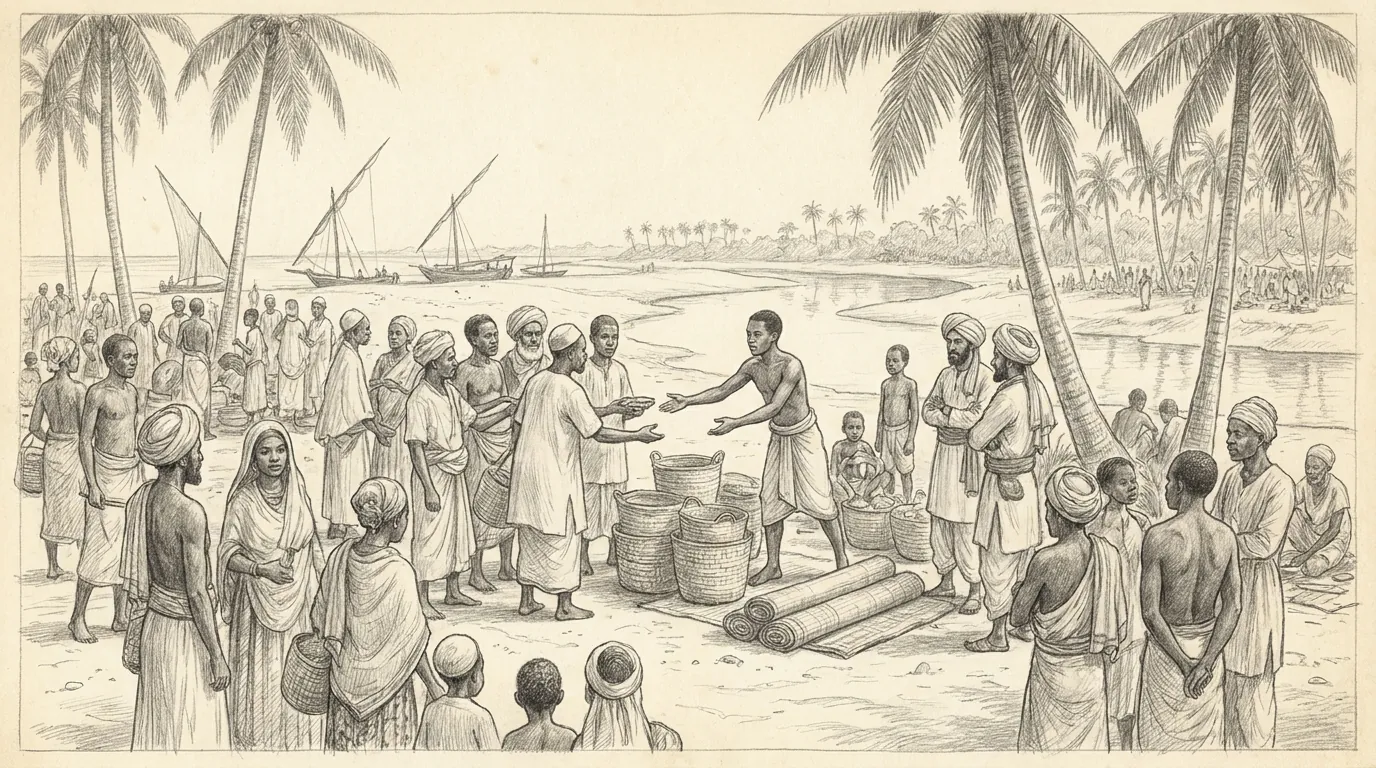
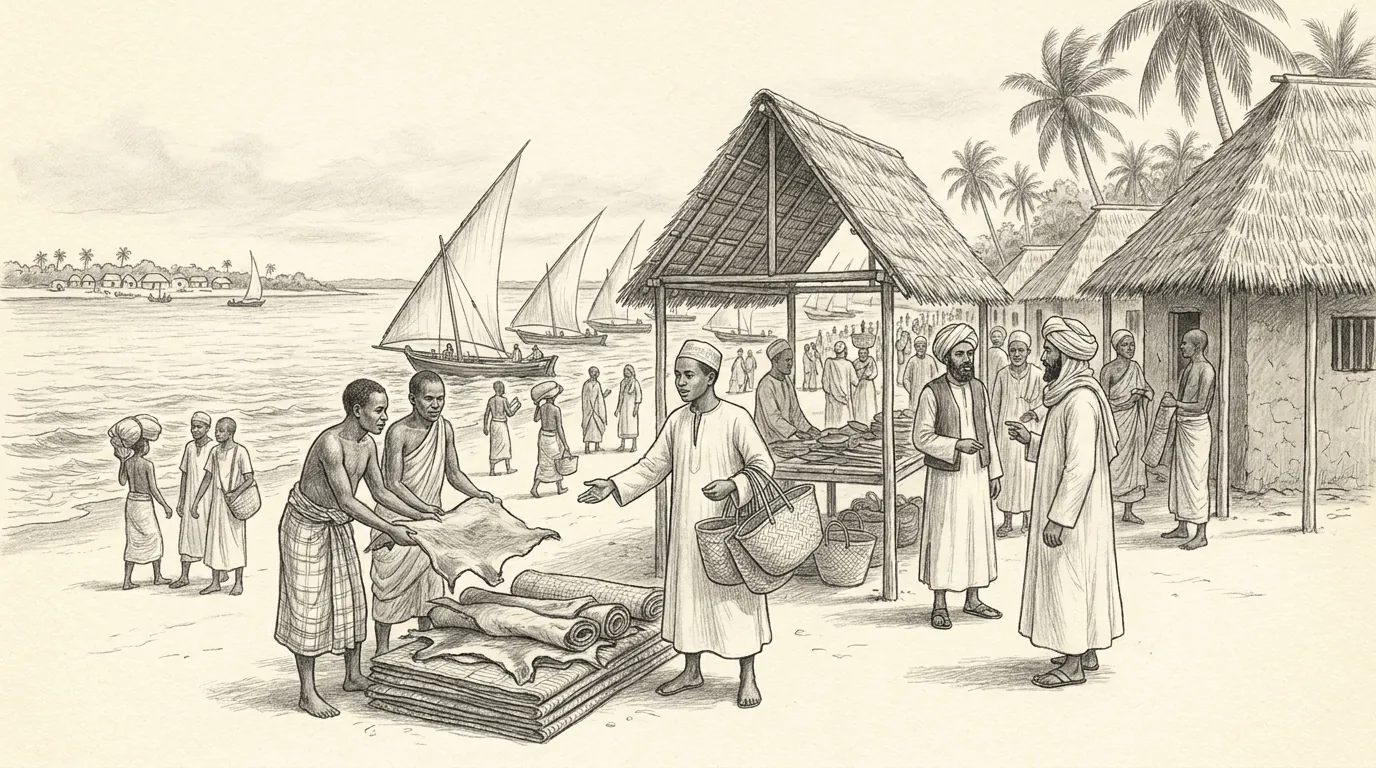
Hero pages: quotations render as blockquotes (HIST-2); fingo (not jingo); Dzubgwe (not Dzugwe); Likoni scene redrawn with the channel at true scale

diff --git a/lib/history/figure-articles.ts b/lib/history/figure-articles.ts
@@ -33,8 +33,10 @@ export function parseFigureMarkdown(md: string): FigureArticle {
     if (para.length) out.body.push({ type: 'paragraph', text: para.join(' ') });
     para = [];
   };
+  let prevQuote = false;
   for (const raw of md.split('\n')) {
     const line = raw.trim();
+    if (!line.startsWith('>')) prevQuote = false;
     if (line.startsWith('# ')) {
       const [title, ...rest] = line.slice(2).split(':');
       out.title = title.trim();
@@ -51,6 +53,15 @@ export function parseFigureMarkdown(md: string): FigureArticle {
       if (item) out.sources.push(item);
     } else if (/^\*\*[^*]+:\*\*/.test(line) && out.body.every((b) => b.type !== 'heading')) {
       out.meta.push(line.replace(/^\*\*([^*]+):\*\*\s*/, '$1: '));
+    } else if (line.startsWith('>')) {
+      flush();
+      // Consecutive "> " lines form one quotation.
+      const text = line.replace(/^>\s?/, '');
+      const last = out.body[out.body.length - 1];
+      if (last?.type === 'quote' && prevQuote) last.text += ` ${text}`;
+      else out.body.push({ type: 'quote', text });
+      prevQuote = true;
+      continue;
     } else if (/^[-*]\s+/.test(line)) {
       flush();
       out.body.push({ type: 'paragraph', text: line.replace(/^[-*]\s+/, '') });

diff --git a/tests/history-figure-articles.test.ts b/tests/history-figure-articles.test.ts
@@ -18,6 +18,8 @@ describe('figure articles', () => {
       expect(a.sources.length).toBeGreaterThan(0);
       // Overview labels and the Sources list never leak into the body.
       expect(a.body.some((b) => /^(overview|sources)$/i.test(b.text))).toBe(false);
+      // Quotations are parsed as quote blocks, never shown with a literal ">" (HIST-2).
+      expect(a.body.some((b) => b.text.trimStart().startsWith('>'))).toBe(false);
     });
   }
   it('every figure card has its article in all three languages', () => {

diff --git a/components/HistoryArticle/HistoryArticle.tsx b/components/HistoryArticle/HistoryArticle.tsx
@@ -42,6 +42,10 @@ export function ArticleBody({ body }: { body: ContentBlock[] }) {
           <h3 key={i} className={styles.articleHeading}>
             {block.text}
           </h3>
+        ) : block.type === 'quote' ? (
+          <blockquote key={i} className={styles.quote}>
+            {renderInlineMarkdown(block.text)}
+          </blockquote>
         ) : (
           <p key={i} className={styles.bodyText}>
             {renderInlineMarkdown(block.text)}

diff --git a/components/HistoryArticle/HistoryArticle.module.css b/components/HistoryArticle/HistoryArticle.module.css
@@ -192,3 +192,14 @@
     grid-template-columns: 1fr;
   }
 }
+
+.quote {
+  margin: 0 0 1.5rem;
+  padding: 0.25rem 0 0.25rem 1.25rem;
+  border-left: 3px solid var(--color-mnazi-gold);
+  font-family: var(--font-serif);
+  font-style: italic;
+  font-size: 1.05rem;
+  line-height: 1.7;
+  color: var(--color-vigango-black);
+}

diff --git a/lib/history/content.ts b/lib/history/content.ts
@@ -2,7 +2,8 @@ import type { Locale } from '@/lib/i18n/config';
 
 export type ContentBlock =
   | { type: 'heading'; text: string }
-  | { type: 'paragraph'; text: string };
+  | { type: 'paragraph'; text: string }
+  | { type: 'quote'; text: string };
 
 export type Topic = {
   slug: string;

diff --git a/content/history/figures/dg/salim-mwabundu.md b/content/history/figures/dg/salim-mwabundu.md
@@ -14,7 +14,7 @@ Phephi mambo gosi ganagomanyikana kuhusu iye ganatuluka kpwa mdzukuluwe, Saidi b
 
 ## Makaya ga Likoni
 
-Kufikira karne ya 19 Adigo a phatu pha Likoni kala anaishi kpwenye makaya manne: Puma, Chibuyuni, Timbwani na Shonda. Kaya kala ni chidzidzi chiricho na ngome na phatu pha mila, chirichokala chinalongozwa ni baraza ra azehe (*ngambi*). Mzehe mkpwulu wa kaya, *mwanatsi* ("mwana wa tsi"), kala ndiye analongoza mila, na kpwa kawaida kala anatsambulwa kpwa uphande wa mayo kula fuko ririroandzisha kaya. Makaya manne ga Likoni kala gakaungana, na azehe a makaya higo kala anakutana na kulavya sadaka phamwenga. Shonda ndiyo kala ya kpwandza kahi ya makaya higo. Kala ina mbira za kare sana za akare, na *jingo*, pingu ya kurinda, ambayo ni mwenga wa pingu za kare zaidi za phatu phapho. Misafara ya mila kala inatsupa kpwenye makaya ganjina mahahu kabla ya kufika Shonda, ambapho mila kulu kala zinahendwa.
+Kufikira karne ya 19 Adigo a phatu pha Likoni kala anaishi kpwenye makaya manne: Puma, Chibuyuni, Timbwani na Shonda. Kaya kala ni chidzidzi chiricho na ngome na phatu pha mila, chirichokala chinalongozwa ni baraza ra azehe (*ngambi*). Mzehe mkpwulu wa kaya, *mwanatsi* ("mwana wa tsi"), kala ndiye analongoza mila, na kpwa kawaida kala anatsambulwa kpwa uphande wa mayo kula fuko ririroandzisha kaya. Makaya manne ga Likoni kala gakaungana, na azehe a makaya higo kala anakutana na kulavya sadaka phamwenga. Shonda ndiyo kala ya kpwandza kahi ya makaya higo. Kala ina mbira za kare sana za akare, na *fingo*, pingu ya kurinda, ambayo ni mwenga wa pingu za kare zaidi za phatu phapho. Misafara ya mila kala inatsupa kpwenye makaya ganjina mahahu kabla ya kufika Shonda, ambapho mila kulu kala zinahendwa.
 
 Aislamu kala taaishi Likoni mwandzo wa karne ya 19, ela Aswahili a Kilindini kula Mombasa kala anarima iko. Mwaka 1837 Sultani wa Zanzibar waika asikari a Chibaluchi Mombasa, nao chisha aandza kuhenda biashara na Adigo. Anjina ao alola achetu a Chidigo. Kpwa vira kala takuna chete cha Adigo Likoni, achuuzi kala anaika vitu vyao phephi na pwani.
 
@@ -32,7 +32,7 @@ Wakati uo kala takuna msikiti Likoni. Dza Adigo anjina ariokala akasilimu, Mwabu
 
 Mwandzo wa miaka ya 1890 Mwabundu wamhuma mwanawe mvugula, Khalfan, akasome Kuruani. Mwalimu wa kpwandza wa Khalfan kala ni Mbwana bin Ali Mwarako, Mdigo wa Tanga ariyekala anafundza Likoni. Chisha Khalfan wasoma Mombasa, na mwisho Pongwe kpwa Bakari Mwanjama, mwalimu Msegeju na msena wa ise. Khalfan kala achere iko Pongwe iriphobanangwa mwezi wa Oktoba 1895, kahi za viha kahi ya Aingereza na Shaykh Mbaruk wa Gasi, na mwalimuwe watsama phamwenga na anafundzie kuphiya Ramisi.
 
-Mwaka 1899 Khamis Dzugwe wadzenga msikiti wa kpwandza wa Likoni, Msikiti wa Riyadha. Khalfan ariphouya kpwakpwe kaya wakala Imamu wa msikiti uo. Kama mwaka 1909 Salim Mwabundu wadzenga msikiti wa phiri, Msikiti wa Bomani, bada ya kutsimba kpwandza chisima phephi naho kpwa msada wa Mwislamu wa Chibohora kula Mombasa. Khalfan wauricha Msikiti wa Riyadha achikala Imamu wa kpwandza wa Bomani, na bada ya Viha vya Kpwandza vya Dunia wavugula chuo cha Kuruani iko. Orodha ya serikali ya misikiti ya mwaka 1913 inahadza msikiti mmwenga wa "Salim wa Bundu".
+Mwaka 1899 Khamis Dzubgwe wadzenga msikiti wa kpwandza wa Likoni, Msikiti wa Riyadha. Khalfan ariphouya kpwakpwe kaya wakala Imamu wa msikiti uo. Kama mwaka 1909 Salim Mwabundu wadzenga msikiti wa phiri, Msikiti wa Bomani, bada ya kutsimba kpwandza chisima phephi naho kpwa msada wa Mwislamu wa Chibohora kula Mombasa. Khalfan wauricha Msikiti wa Riyadha achikala Imamu wa kpwandza wa Bomani, na bada ya Viha vya Kpwandza vya Dunia wavugula chuo cha Kuruani iko. Orodha ya serikali ya misikiti ya mwaka 1913 inahadza msikiti mmwenga wa "Salim wa Bundu".
 
 ## Tsini ya Utawala wa Aingereza
 

diff --git a/content/history/figures/sw/salim-mwabundu.md b/content/history/figures/sw/salim-mwabundu.md
@@ -14,7 +14,7 @@ Karibu kila kinachojulikana kumhusu kinatoka kwa mjukuu wake, Saidi bin Khalfan 
 
 ## Kaya za Likoni
 
-Kufikia karne ya 19 Adigo wa eneo la Likoni waliishi katika kaya nne: Puma, Chibuyuni, Timbwani na Shonda. Kaya ilikuwa makazi yenye ngome na kituo cha mila, yaliyoongozwa na baraza la wazee (*ngambi*). Mzee wake mkuu, *mwanatsi* ("mwana wa nchi"), aliongoza sherehe na kwa kawaida alichaguliwa kupitia upande wa mama kutoka ukoo ulioanzisha kaya. Kaya nne za Likoni ziliunda shirikisho ambalo wazee wake walikutana na kutoa sadaka pamoja. Shonda ilikuwa ya kwanza kati yao. Ilikuwa na makaburi ya kale zaidi ya mababu na mojawapo ya hirizi kongwe zaidi za kinga (*jingo*) katika eneo hilo, na misafara ya mila ilipita katika kaya zile nyingine tatu kabla ya kufika Shonda, ambako sherehe kuu zilifanyika.
+Kufikia karne ya 19 Adigo wa eneo la Likoni waliishi katika kaya nne: Puma, Chibuyuni, Timbwani na Shonda. Kaya ilikuwa makazi yenye ngome na kituo cha mila, yaliyoongozwa na baraza la wazee (*ngambi*). Mzee wake mkuu, *mwanatsi* ("mwana wa nchi"), aliongoza sherehe na kwa kawaida alichaguliwa kupitia upande wa mama kutoka ukoo ulioanzisha kaya. Kaya nne za Likoni ziliunda shirikisho ambalo wazee wake walikutana na kutoa sadaka pamoja. Shonda ilikuwa ya kwanza kati yao. Ilikuwa na makaburi ya kale zaidi ya mababu na mojawapo ya hirizi kongwe zaidi za kinga (*fingo*) katika eneo hilo, na misafara ya mila ilipita katika kaya zile nyingine tatu kabla ya kufika Shonda, ambako sherehe kuu zilifanyika.
 
 Waislamu hawakuishi Likoni mwanzoni mwa karne ya 19, ingawa Waswahili wa Kilindini kutoka Mombasa walilima huko. Mwaka 1837 Sultani wa Zanzibar aliweka askari wa Kibaluchi Mombasa, na punde wakaanza kufanya biashara na Adigo. Baadhi yao walioa wake wa Kidigo. Kwa kuwa hapakuwa na soko la Adigo Likoni, wafanyabiashara walipanga bidhaa zao karibu na ufuo.
 
@@ -32,7 +32,7 @@ Wakati huo hapakuwa na msikiti Likoni. Kama Adigo wengine waliosilimu, Mwabundu 
 
 Mwanzoni mwa miaka ya 1890 Mwabundu alimpeleka mwanawe wa kwanza, Khalfan, kusoma Qurani. Mwalimu wa kwanza wa Khalfan alikuwa Mbwana bin Ali Mwarako, Mdigo kutoka Tanga aliyekuwa akifundisha Likoni. Kisha alisoma Mombasa, na mwishowe Pongwe kwa Bakari Mwanjama, mwalimu Msegeju na rafiki wa baba yake. Alikuwa bado Pongwe ilipoharibiwa Oktoba 1895, katika mapigano kati ya Waingereza na Shaykh Mbaruk wa Gasi, na mwalimu wake alihamia Ramisi pamoja na wanafunzi wake.
 
-Mwaka 1899 Khamis Dzugwe alijenga msikiti wa kwanza wa Likoni, Msikiti wa Riyadha. Khalfan aliporudi nyumbani akawa Imamu wake. Karibu mwaka 1909 Salim Mwabundu alijenga msikiti wa pili, Msikiti wa Bomani, baada ya kwanza kuchimba kisima karibu nao kwa msaada wa Mwislamu wa Kibohora kutoka Mombasa. Khalfan aliuacha Msikiti wa Riyadha akawa Imamu wa kwanza wa Bomani, na baada ya Vita vya Kwanza vya Dunia alifungua chuo cha Qurani huko. Orodha ya serikali ya misikiti ya mwaka 1913 inataja msikiti mmoja wa "Salim wa Bundu".
+Mwaka 1899 Khamis Dzubgwe alijenga msikiti wa kwanza wa Likoni, Msikiti wa Riyadha. Khalfan aliporudi nyumbani akawa Imamu wake. Karibu mwaka 1909 Salim Mwabundu alijenga msikiti wa pili, Msikiti wa Bomani, baada ya kwanza kuchimba kisima karibu nao kwa msaada wa Mwislamu wa Kibohora kutoka Mombasa. Khalfan aliuacha Msikiti wa Riyadha akawa Imamu wa kwanza wa Bomani, na baada ya Vita vya Kwanza vya Dunia alifungua chuo cha Qurani huko. Orodha ya serikali ya misikiti ya mwaka 1913 inataja msikiti mmoja wa "Salim wa Bundu".
 
 ## Chini ya Utawala wa Waingereza
 

diff --git a/content/history/figures/salim-mwabundu.md b/content/history/figures/salim-mwabundu.md
@@ -14,7 +14,7 @@ Nearly everything known about him comes from his grandson, Saidi bin Khalfan Mwa
 
 ## The Kayas of Likoni
 
-By the 19th century the Digo of the Likoni area lived in four kayas: Puma, Chibuyuni, Timbwani and Shonda. A kaya was a fortified settlement and ritual centre, governed by a council of elders (*ngambi*). Its senior elder, the *mwanatsi* ("son of the land"), led the ceremonies and was normally chosen through the mother's line from the founding clan. The four Likoni kayas formed a federation whose elders met and made sacrifices together. Shonda came first among them. It held the earliest ancestral graves and one of the oldest protective charms (*jingo*) of the area, and ritual processions passed through the other three kayas before reaching Shonda, where the main ceremonies took place.
+By the 19th century the Digo of the Likoni area lived in four kayas: Puma, Chibuyuni, Timbwani and Shonda. A kaya was a fortified settlement and ritual centre, governed by a council of elders (*ngambi*). Its senior elder, the *mwanatsi* ("son of the land"), led the ceremonies and was normally chosen through the mother's line from the founding clan. The four Likoni kayas formed a federation whose elders met and made sacrifices together. Shonda came first among them. It held the earliest ancestral graves and one of the oldest protective charms (*fingo*) of the area, and ritual processions passed through the other three kayas before reaching Shonda, where the main ceremonies took place.
 
 Muslims did not live at Likoni in the early 19th century, though Kilindini Swahili from Mombasa farmed there. In 1837 the Sultan of Zanzibar posted Baluchi soldiers at Mombasa, and they soon began trading with the Digo. Some took Digo wives. With no Digo market at Likoni, traders laid out their goods near the shore.
 
@@ -32,7 +32,7 @@ There was no mosque at Likoni then. Like other Digo converts, Mwabundu went to M
 
 In the early 1890s Mwabundu sent his eldest son, Khalfan, to study the Qur'an. Khalfan's first teacher was Mbwana bin Ali Mwarako, a Digo from Tanga who was teaching at Likoni. He then studied in Mombasa, and finally at Pongwe with Bakari Mwanjama, a Segeju teacher and a friend of his father. He was still at Pongwe when it was destroyed in October 1895, in the fighting between the British and Shaykh Mbaruk of Gasi, and his teacher moved with his pupils to Ramisi.
 
-In 1899 Khamis Dzugwe built Likoni's first mosque, the Riyadha Mosque. When Khalfan came home he became its Imam. In about 1909 Salim Mwabundu built the second, the Bomani Mosque, after first digging a well nearby with the help of a Bohora Muslim from Mombasa. Khalfan left the Riyadha Mosque to become the first Imam at Bomani, and after the First World War he opened a Qur'an school there. A government list of mosques in 1913 records one belonging to "Salim wa Bundu".
+In 1899 Khamis Dzubgwe built Likoni's first mosque, the Riyadha Mosque. When Khalfan came home he became its Imam. In about 1909 Salim Mwabundu built the second, the Bomani Mosque, after first digging a well nearby with the help of a Bohora Muslim from Mombasa. Khalfan left the Riyadha Mosque to become the first Imam at Bomani, and after the First World War he opened a Qur'an school there. A government list of mosques in 1913 records one belonging to "Salim wa Bundu".
 
 ## Under British Rule
 

diff --git a/content/history/figures/dg/kubo-mwamzungu.md b/content/history/figures/dg/kubo-mwamzungu.md
@@ -22,7 +22,7 @@ Wakati wa utawalawe unamanyikana kula kpwa ushahidi mmwenga bahi: Sperling, achi
 
 ## Ndugu wa Mlatso wa Diwani
 
-Chikoneni, maili arubaini kusini ya Mombasa na maili kumi na tsano kula pwani kuphiya bara, kpwa muda mure kala taifikirwa ni Uislamu, ela kpwa njira mwenga: Madiwani a Vumba, atawala a Chiislamu a Wasin na badaye a Vanga. Nkugombwa kukala Mwamzungu kala anaziishimu sana nguvu za uganga za Diwani Pinda, ariyetsambulwa kukala Diwani wa Vanga mwaka 1826. Diwani wakubalika kukala mkpwanyi wa mwisho wa ugomvi wa Adigo, na inaonekana kala anaapha Adigo hirizi za kudzirinda. Nkugombwa kukala Adigo na Avumba azika phamwenga hirizi ya kurinda (*jingo*) hiko Kaya Dzombo.
+Chikoneni, maili arubaini kusini ya Mombasa na maili kumi na tsano kula pwani kuphiya bara, kpwa muda mure kala taifikirwa ni Uislamu, ela kpwa njira mwenga: Madiwani a Vumba, atawala a Chiislamu a Wasin na badaye a Vanga. Nkugombwa kukala Mwamzungu kala anaziishimu sana nguvu za uganga za Diwani Pinda, ariyetsambulwa kukala Diwani wa Vanga mwaka 1826. Diwani wakubalika kukala mkpwanyi wa mwisho wa ugomvi wa Adigo, na inaonekana kala anaapha Adigo hirizi za kudzirinda. Nkugombwa kukala Adigo na Avumba azika phamwenga hirizi ya kurinda (*fingo*) hiko Kaya Dzombo.
 
 Dzambo rinarotambukirwa sana ni udugu wa mlatso (*chale*). Omari Muhammad Masemo, ambaye kala ni karani wa Kubo wa badaye, wamuambira Sperling mwaka 1975 kukala Mwamzungu wagomba atsanganye mlatso wao na nyama, chisha arye nyama iyo. Pinda, kpwa kukala kala ni Mwislamu, warema kurya nyama isiyotsindzbwa kpwa njira ya Chiislamu. "Ela Kubo wahala kuku achimuolaga kpwa kumng'ata na menoge" (*"But Kubo got a chicken and killed it by biting it with his teeth"*), na ariphoivwa "osi achimurya, hata Diwani" (*"they all ate it, including the Diwan"*). Kpwa maneno ga Masemo: "Kula siku za Kubo Mwamzungu na Diwani Pinda hwakala ndugu" (*"From the days of Kubo Mwamzungu and Diwan Pinda we became brothers"*).
 

diff --git a/content/history/figures/sw/kubo-mwamzungu.md b/content/history/figures/sw/kubo-mwamzungu.md
@@ -22,7 +22,7 @@ Tarehe yake inategemea marejeo mamoja tu: akinukuu "History of Vumba" ya Hollis,
 
 ## Ndugu wa Damu wa Diwani
 
-Chikoneni, maili arobaini kusini mwa Mombasa na maili kumi na tano kutoka pwani kuelekea bara, kwa muda mrefu haikufikiwa na ushawishi wa Kiislamu, isipokuwa kwa jambo moja: Madiwani wa Vumba, watawala Waislamu wa Wasin na baadaye Vanga. Inasemekana Mwamzungu aliithamini nguvu ya uganga ya Diwani Pinda, aliyechaguliwa kuwa Diwani wa Vanga mwaka 1826. Diwani alikubaliwa kuwa msuluhishi wa mwisho katika mizozo ya Wadigo, na inaonekana aliwapa Wadigo hirizi za kinga. Inasemekana Wadigo na Wavumba walizika pamoja hirizi ya kinga (*jingo*) huko Kaya Dzombo.
+Chikoneni, maili arobaini kusini mwa Mombasa na maili kumi na tano kutoka pwani kuelekea bara, kwa muda mrefu haikufikiwa na ushawishi wa Kiislamu, isipokuwa kwa jambo moja: Madiwani wa Vumba, watawala Waislamu wa Wasin na baadaye Vanga. Inasemekana Mwamzungu aliithamini nguvu ya uganga ya Diwani Pinda, aliyechaguliwa kuwa Diwani wa Vanga mwaka 1826. Diwani alikubaliwa kuwa msuluhishi wa mwisho katika mizozo ya Wadigo, na inaonekana aliwapa Wadigo hirizi za kinga. Inasemekana Wadigo na Wavumba walizika pamoja hirizi ya kinga (*fingo*) huko Kaya Dzombo.
 
 Tukio linalokumbukwa zaidi ni udugu wa damu (*chale*). Omari Muhammad Masemo, aliyewahi kuwa karani wa Kubo wa baadaye, alimweleza Sperling mwaka 1975 kwamba Mwamzungu alipendekeza wachanganye damu yao na nyama kisha waile. Pinda, akiwa Mwislamu, alikataa kula nyama isiyochinjwa kwa taratibu za Kiislamu. "Lakini Kubo alichukua kuku akamuua kwa kumng'ata kwa meno yake" (*"But Kubo got a chicken and killed it by biting it with his teeth"*), na ilipoiva "wote waliila, hata Diwani" (*"they all ate it, including the Diwan"*). Kwa maneno ya Masemo: "Tangu siku za Kubo Mwamzungu na Diwani Pinda tukawa ndugu" (*"From the days of Kubo Mwamzungu and Diwan Pinda we became brothers"*).
 

diff --git a/content/history/figures/kubo-mwamzungu.md b/content/history/figures/kubo-mwamzungu.md
@@ -22,7 +22,7 @@ His date rests on a single cross-reference: citing Hollis's "History of Vumba", 
 
 ## Blood-Brother of the Diwan
 
-Chikoneni, forty miles south of Mombasa and fifteen miles inland, was long isolated from Muslim influence, with one exception: the Vumba Diwans, the Muslim rulers of Wasin and later Vanga. Mwamzungu is said to have valued the magical powers of Diwan Pinda, who was elected Diwan of Vanga in 1826. The Diwan was accepted as the final arbiter in Digo disputes, and he seems to have supplied the Digo with protective charms. The Digo and the Vumba are said to have buried a protective charm (*jingo*) together at Kaya Dzombo.
+Chikoneni, forty miles south of Mombasa and fifteen miles inland, was long isolated from Muslim influence, with one exception: the Vumba Diwans, the Muslim rulers of Wasin and later Vanga. Mwamzungu is said to have valued the magical powers of Diwan Pinda, who was elected Diwan of Vanga in 1826. The Diwan was accepted as the final arbiter in Digo disputes, and he seems to have supplied the Digo with protective charms. The Digo and the Vumba are said to have buried a protective charm (*fingo*) together at Kaya Dzombo.
 
 The best-remembered episode is a blood-brotherhood (*chale*). Omari Muhammad Masemo, who had worked as clerk to a later Kubo, told Sperling in 1975 that Mwamzungu proposed mixing their blood with meat and eating it. Pinda, a Muslim, protested at eating meat not slaughtered by Muslim rite. "But Kubo got a chicken and killed it by biting it with his teeth", and once it was cooked "they all ate it, including the Diwan." In Masemo's words: "From the days of Kubo Mwamzungu and Diwan Pinda we became brothers."
 
